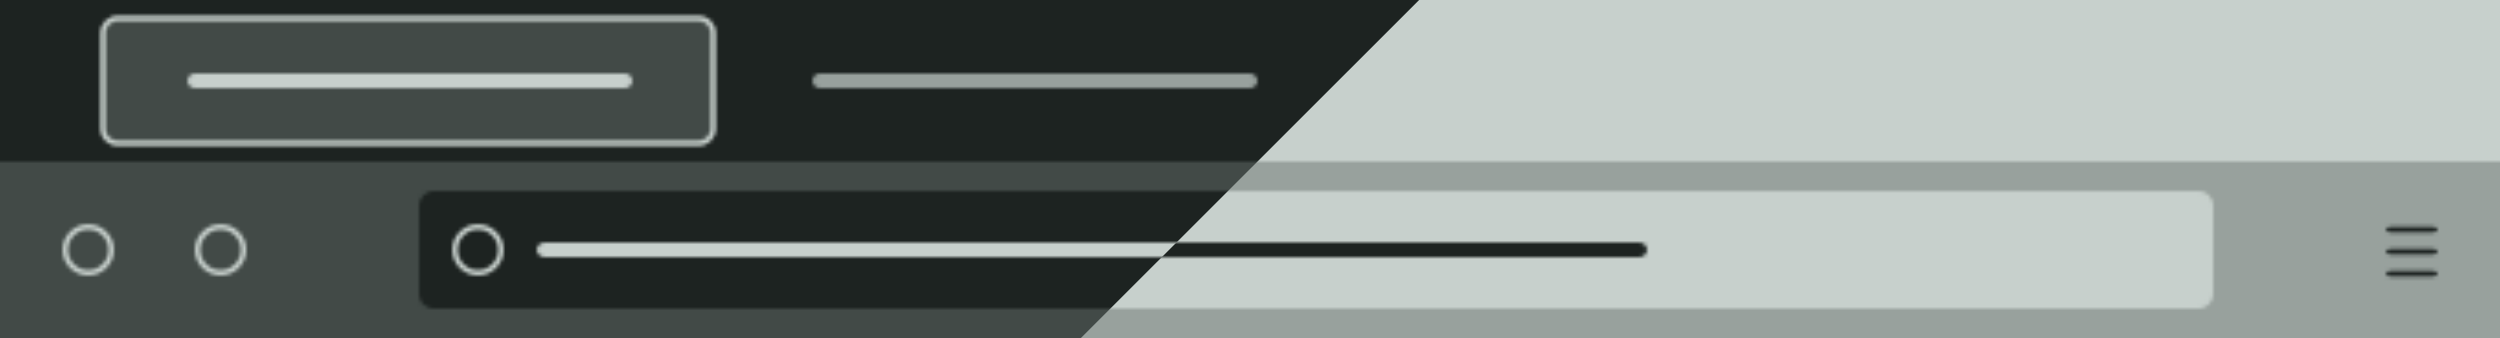
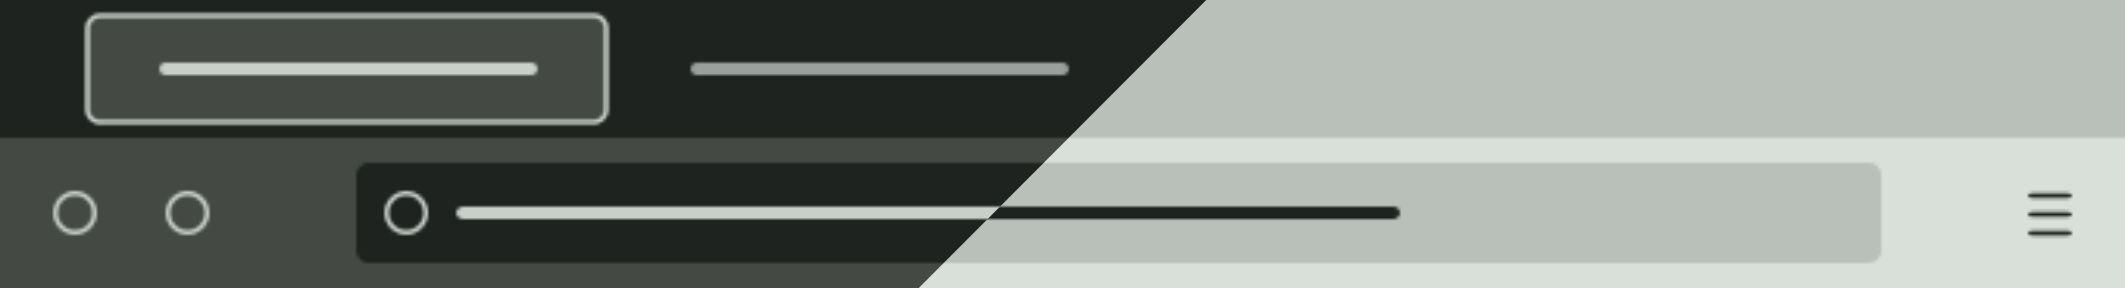
generate new firefox previews, rewrite app sections in README

Changed region(s): [[0.4348, 0.4688, 1.0, 1.0]]

diff --git a/README.md b/README.md
@@ -95,48 +95,54 @@ Each of the files in the `app-config/` directory are named according to
 For example, `monobiome-tundra-dark-soft.vim` is the Vim theme file for the
 dark `tundra` variant with the soft harshness level.
 
-## `kitty`
-Find `kitty` themes in `app-config/kitty`. Themes can be activated in your
-`kitty.conf` with
+## Applications
+- `kitty`
 
-```sh
-include <theme-file>
-```
+  Find `kitty` themes in `app-config/kitty`. Themes can be activated in your
+  `kitty.conf` with
+  
+  ```sh
+  include <theme-file>
+  ```
 
-## `vim`/`neovim`
-Find `vim`/`neovim` themes in `app-config/nvim`. Themes can be activated by placing a
-theme file on Vim's runtime path and setting it in your `.vimrc`/`init.vim`
-with
+  Themes are generated using the [`kitty` theme
+  template](templates/apps/kitty/templates/active.theme).
 
-```sh
-colorscheme <theme-name>
-```
+- `vim`/`neovim`
 
-## `fzf`
-In `app-config/fzf`, you can find scripts that can be ran to export FZF theme
-variables. In your shell config (e.g., `.bashrc` or `.zshrc`), you can source
-these files to apply them in your terminal:
+  Find `vim`/`neovim` themes in `app-config/nvim`. Themes can be activated by placing a
+  theme file on Vim's runtime path and setting it in your `.vimrc`/`init.vim`
+  with
+  
+  ```sh
+  colorscheme <theme-name>
+  ```
 
-```sh
-source <theme-file>
-```
+  Themes are generated using the [`vim` theme
+  template](templates/apps/nvim/templates/theme.vim).
 
-## Firefox
-Find links to install available light/dark Firefox themes for each biome in
-[FIREFOX](/FIREFOX.md). You can also download raw XPI files for each theme in
-`app-config/firefox/`.
+- `fzf`
 
-![Default monobiome](images/firefox/default-split.png)
-*Default monobiome*
+  In `app-config/fzf`, you can find scripts that can be ran to export FZF theme
+  variables. In your shell config (e.g., `.bashrc` or `.zshrc`), you can source
+  these files to apply them in your terminal:
+  
+  ```sh
+  source <theme-file>
+  ```
 
-![Grassland monobiome](images/firefox/grassland-split.png)
-*Grassland monobiome*
+  Themes are generated using the [`fzf` theme
+  template](templates/apps/fzf/templates/active.theme).
 
-![Tundra monobiome](images/firefox/tundra-split.png)
-*Tundra monobiome*
+- Firefox
 
-![Savanna monobiome](images/firefox/savanna-split.png)
-*Savanna monobiome*
+  Firefox themes for all monotone backgrounds are publicly listed as [Mozilla
+  add-ons][2], and switch between light/dark schemes based on system settings.
+  You can also download raw XPI files for each theme in `app-config/firefox/`,
+  each of which is generated using the [Firefox `manifest.json`
+  template](templates/apps/firefox/templates/none-dark.manifest.json).
+
+  ![Firefox theme previews](images/firefox/themes.png)
 
 # Switching themes
 [`symconf`][3] is a general-purpose application config manager that can be used
@@ -196,4 +202,5 @@ biome/harshness/mode. This can be done for any app config file.
 
 
 [1]: https://github.com/isa/TextMate-Themes/blob/master/monoindustrial.tmTheme
+[2]: https://addons.mozilla.org/en-US/firefox/collections/18495484/monobiome/
 [3]: https://github.com/ologio/symconf
